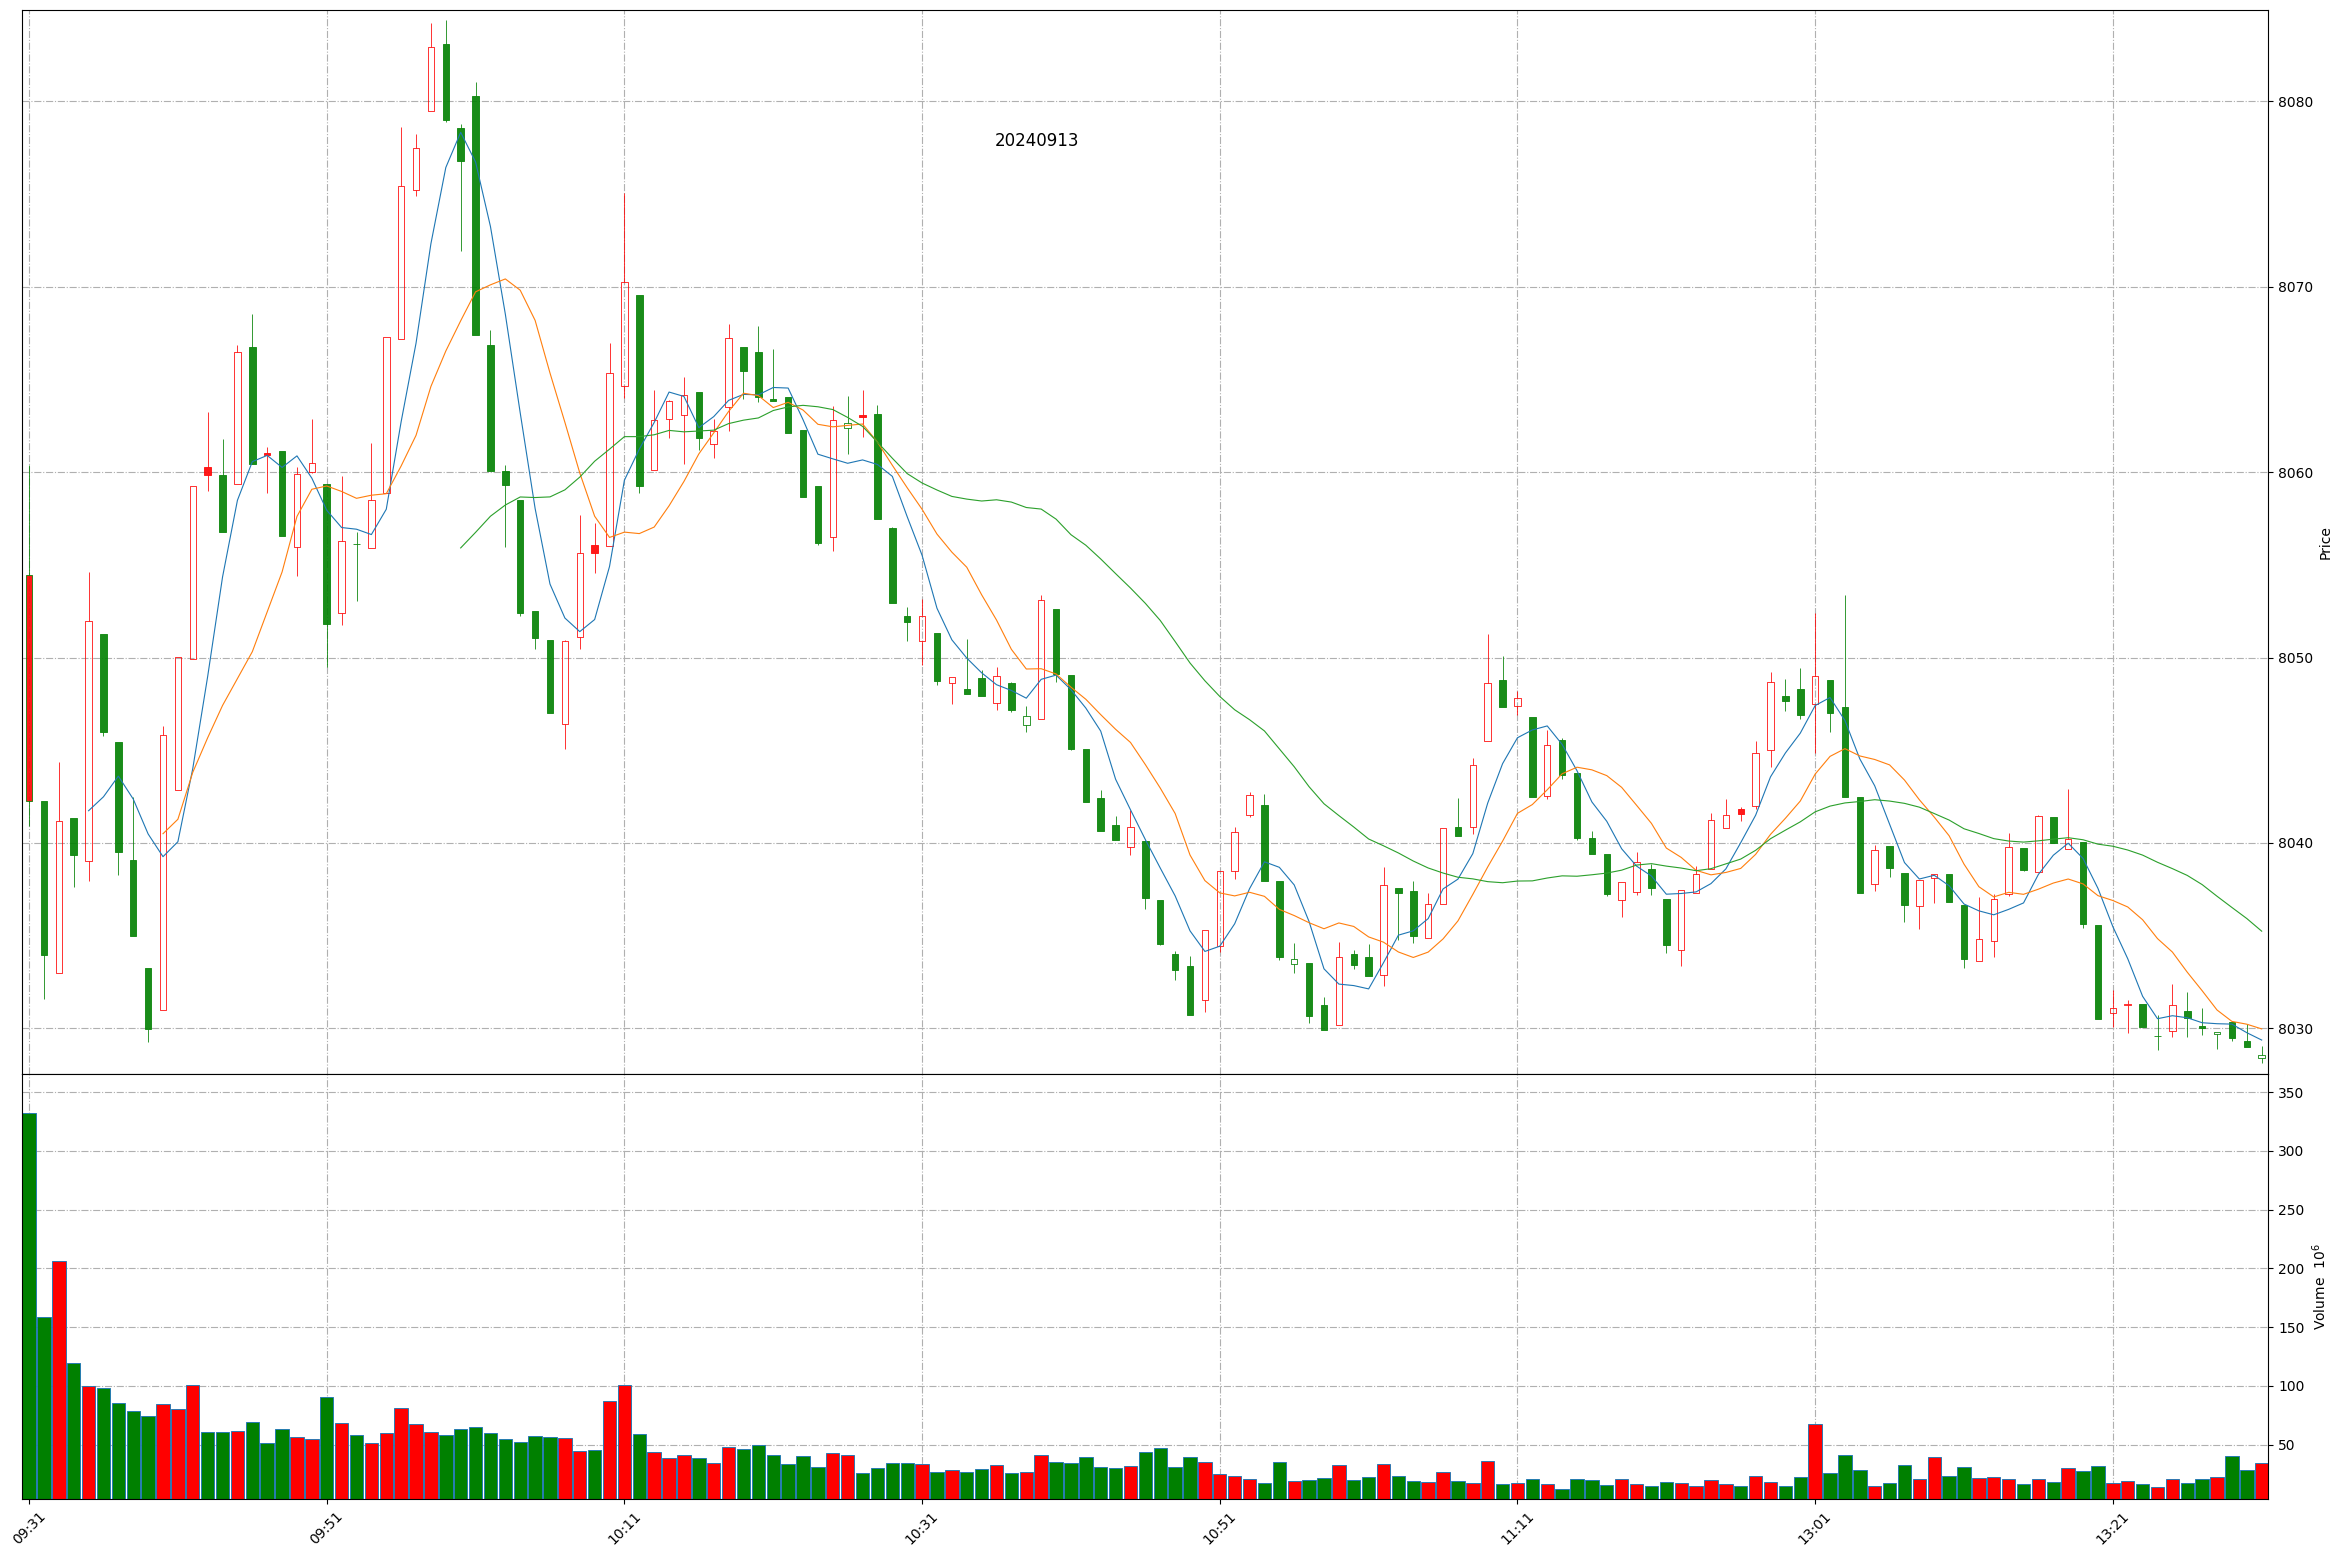
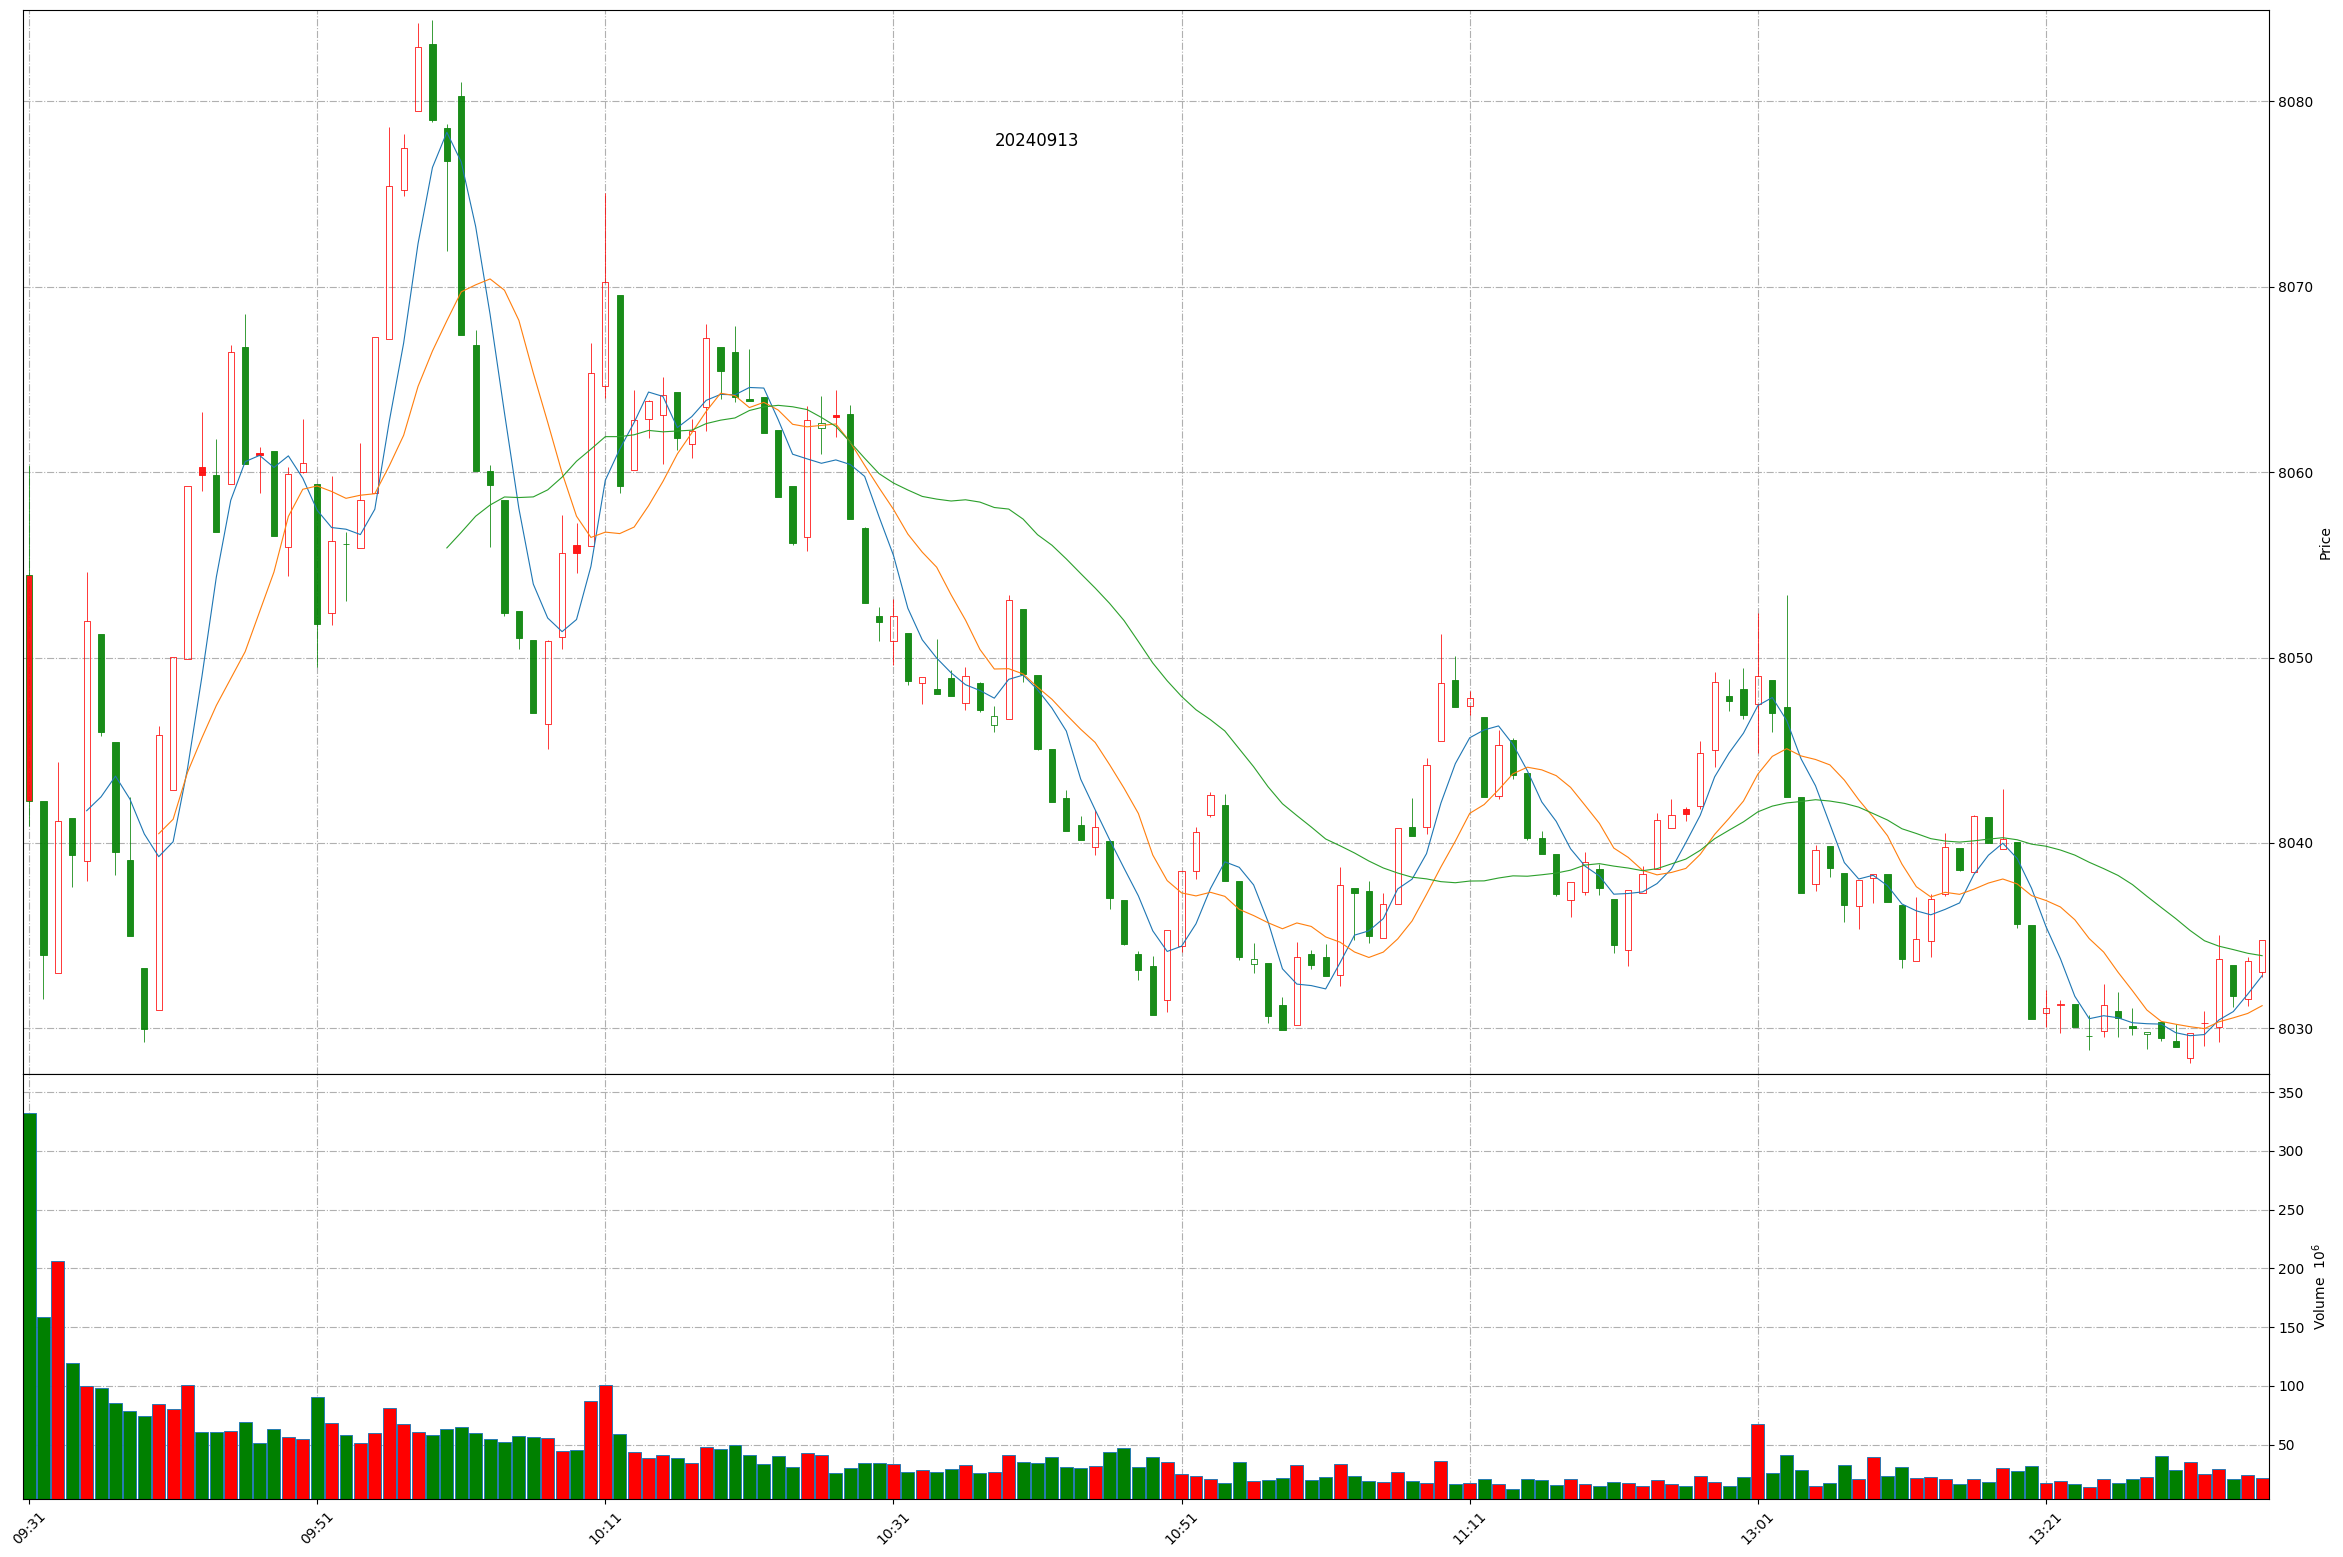
Github action update at 2024-09-13 13:36:04.

diff --git a/README.md b/README.md
@@ -1,11 +1,11 @@
 
 # Daily-A-share-market-quotes 每日 A 股指数（5min 更新）- 20240913
 
-### 上证指数 20240913 13:31
+### 上证指数 20240913 13:36
 ![](./fig/2024/9/20240913-sh000001.png)
 
-### 深证成指 20240913 13:31
+### 深证成指 20240913 13:36
 ![](./fig/2024/9/20240913-sz399001.png)
 
-### 北证50 20240913 13:31
+### 北证50 20240913 13:36
 ![](./fig/2024/9/20240913-bj899050.png)
